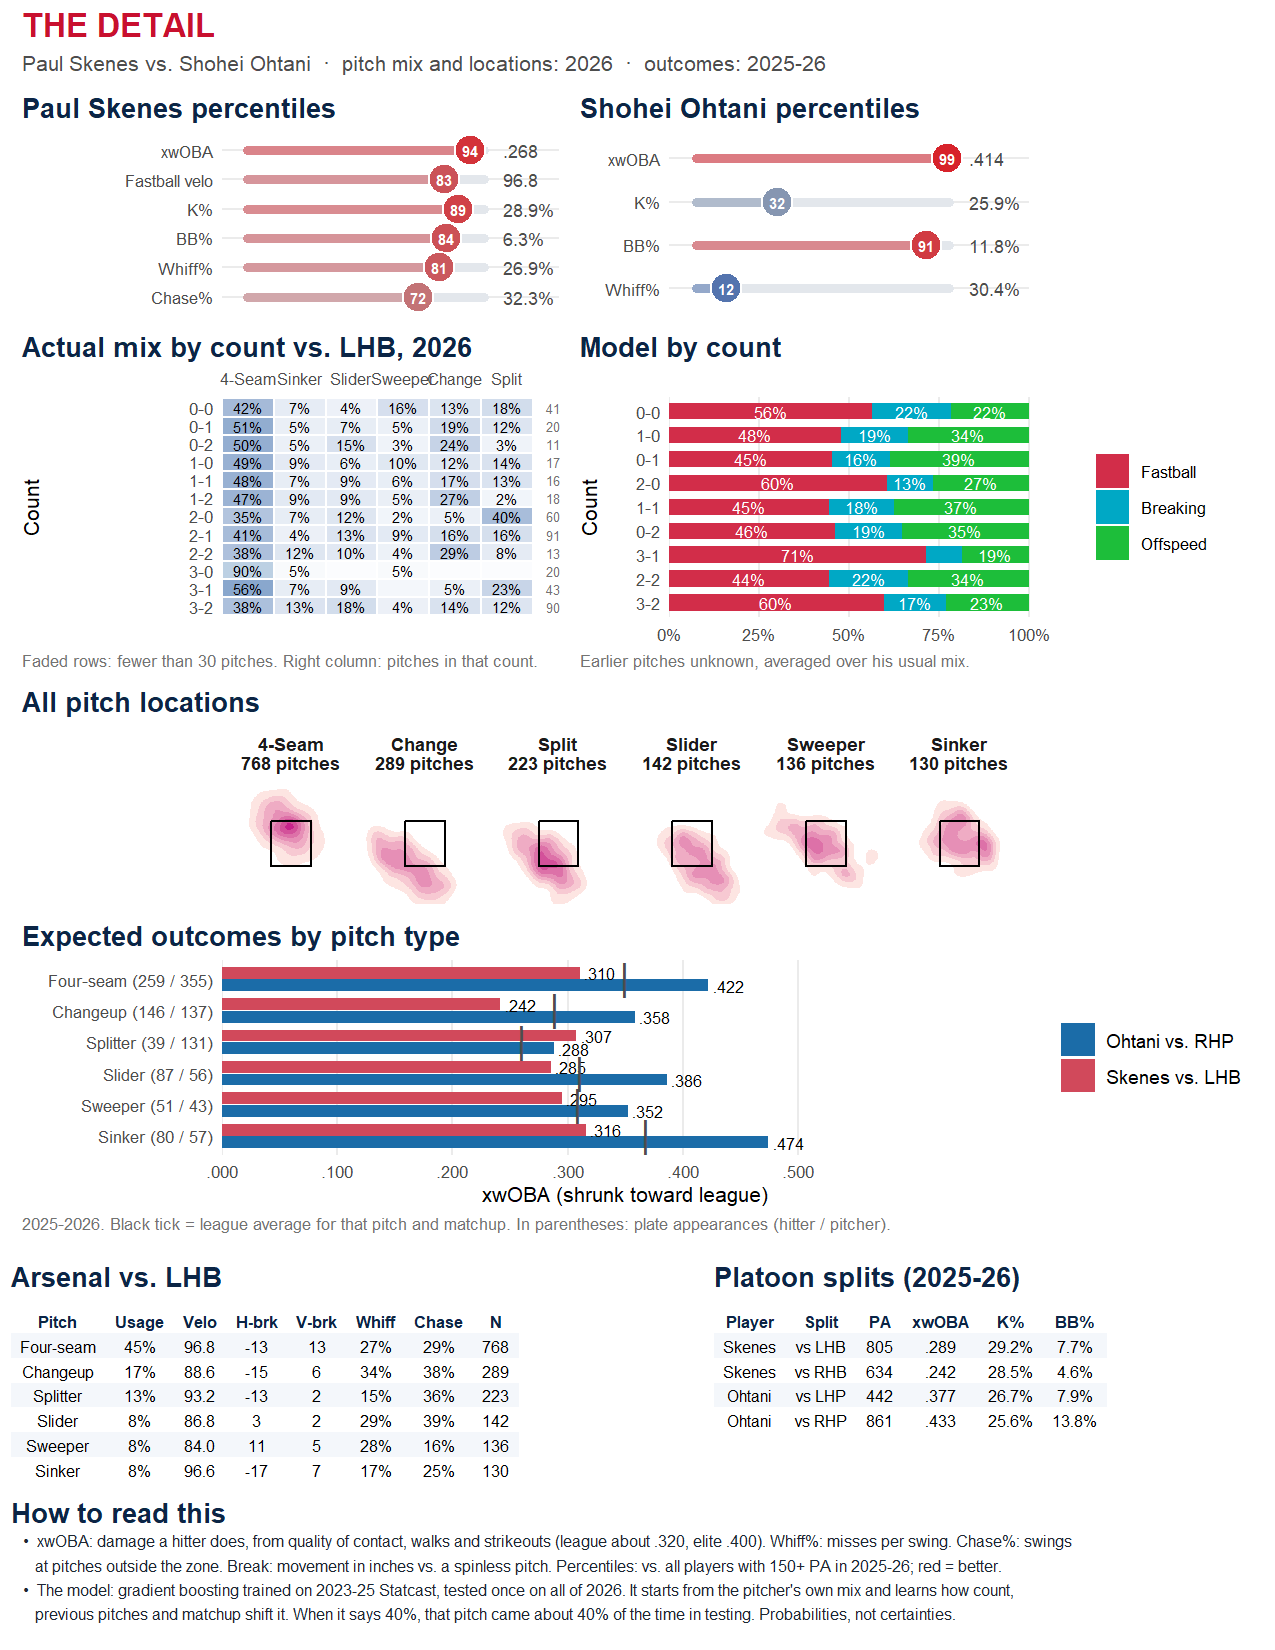
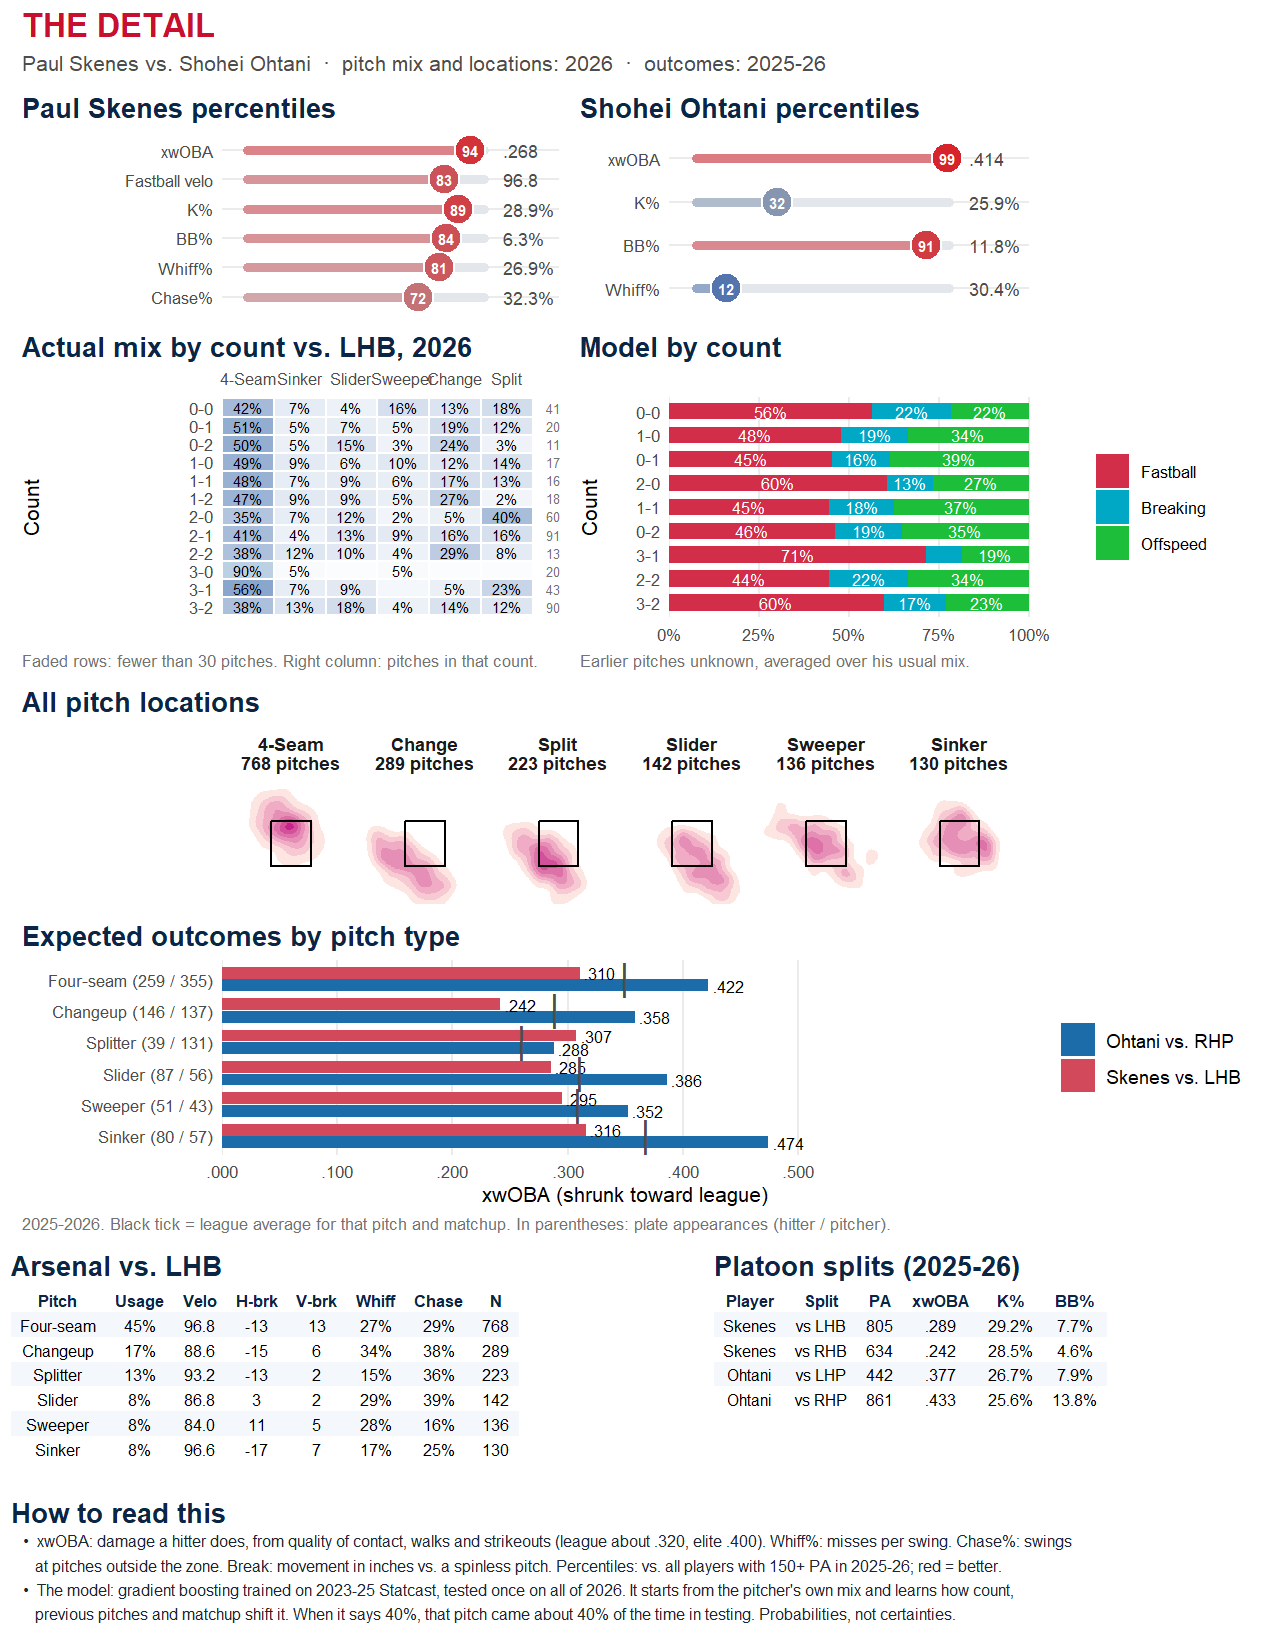
feat: all-pitch location maps at fixed size with sideways scroll; tighter PDF table titles, bolder head-to-head

Changed region(s): [[0.0, 0.7418, 0.3976, 0.8964], [0.5506, 0.7418, 0.8565, 0.8655]]

diff --git a/app/www/savant.css b/app/www/savant.css
@@ -86,3 +86,12 @@ body { color: var(--ink); background: #eef1f4; }
 .btn-primary:hover { background: #a30d26; border-color: #a30d26; }
 
 .app-footer { color: var(--muted); font-size: 0.75rem; padding: 0.6rem 0.2rem 1.2rem; }
+
+/* pitch locations: every pitch at a fixed size; the card scrolls sideways
+   instead of shrinking the maps when they don't all fit */
+.location-scroll { overflow-x: auto; overflow-y: hidden; padding-bottom: 8px; }
+.location-scroll .shiny-plot-output { width: max-content !important; }
+.location-scroll img { max-width: none !important; }
+.location-scroll::-webkit-scrollbar { height: 10px; }
+.location-scroll::-webkit-scrollbar-thumb { background: #9aa8b8; border-radius: 5px; }
+.location-scroll::-webkit-scrollbar-track { background: #eef1f4; border-radius: 5px; }
